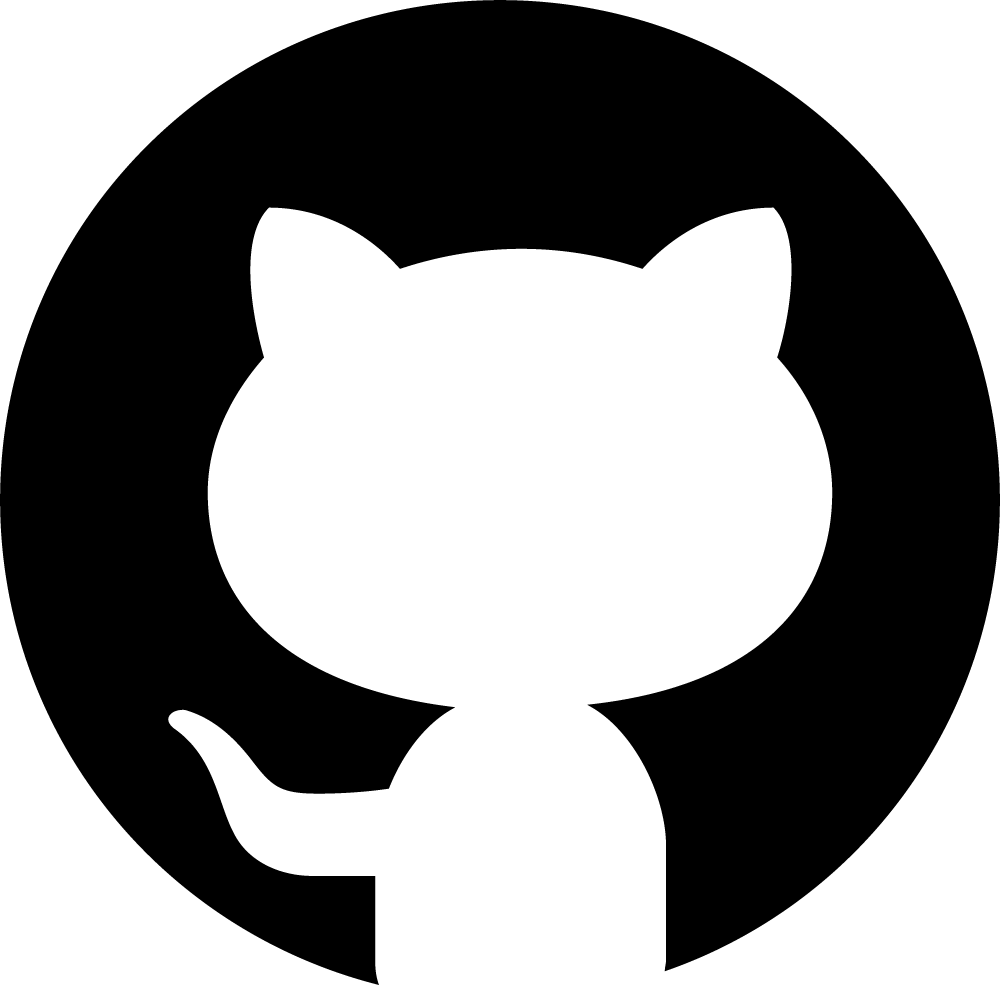
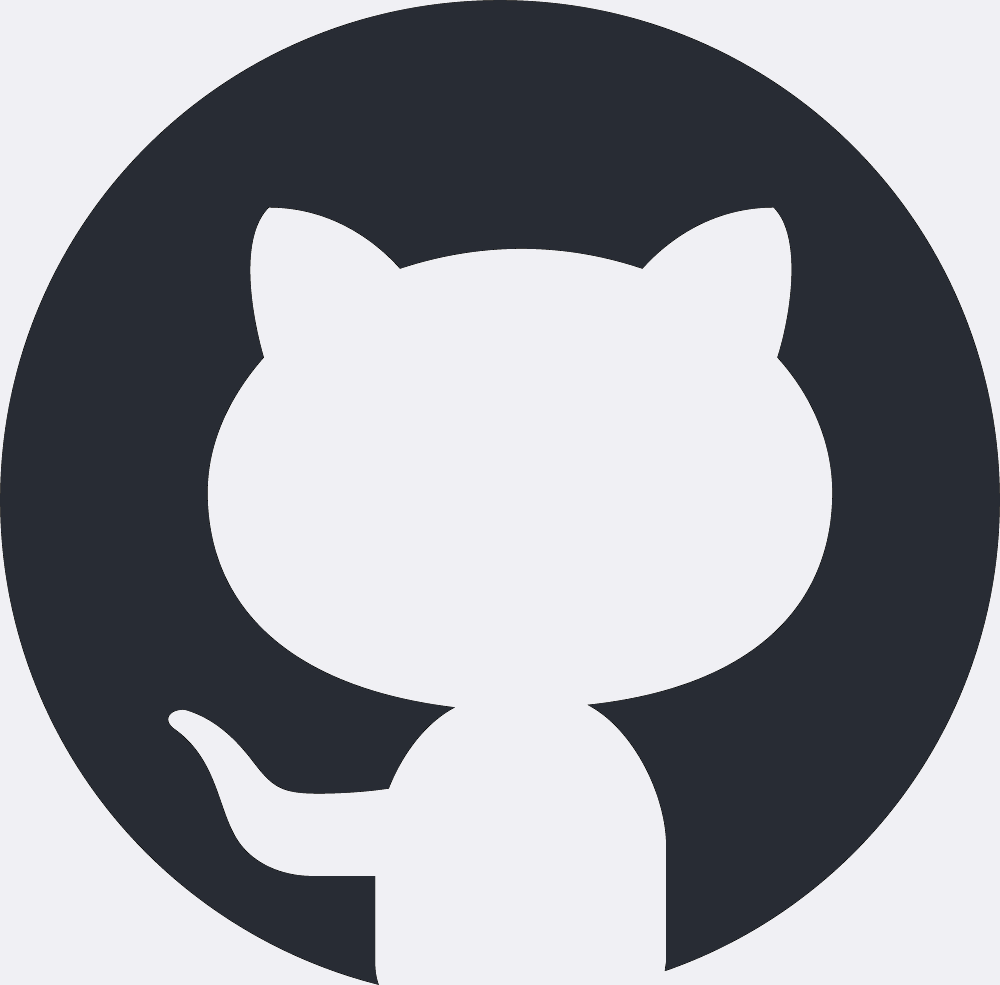
Added theme changer, added Result State

diff --git a/src/components/SimpleRuningLine/index.tsx b/src/components/SimpleRuningLine/index.tsx
@@ -1,16 +1,19 @@
 import React, { useState } from 'react';
 import { css } from 'aphrodite';
-import { useRecoilValue } from 'recoil';
+import { useRecoilState, useRecoilValue } from 'recoil';
 import { useBeforeUnload } from 'react-use';
 import { useKeyPress } from '../../hooks/useKeyPress';
 import { generate } from '../../utils/words';
 import { currentTime } from '../../utils/time';
 import { style } from './style';
 import { themeLabelState } from '../../state/selectors';
+import { simpleResultState } from '../../state/atoms';
+import { SimpleChooseComponent } from '../SimpleChooseComponent';
 
 export function SimpleRunningLineComponent({ count } : { count: number }) {
-  // useBeforeUnload(true, 'You have unsaved changes, are you sure?');
   const themeLabel = useRecoilValue(themeLabelState);
+  const [result, setResult] = useRecoilState(simpleResultState);
+
   const initialWords = generate(count);
   const [leftPadding, setLeftPadding] = useState(
     new Array(20).fill(' ').join(''),
@@ -25,6 +28,8 @@ export function SimpleRunningLineComponent({ count } : { count: number }) {
 
   const [accuracy, setAccuracy] = useState('');
   const [typedChars, setTypedChars] = useState('');
+
+  useBeforeUnload(Boolean(startTime), 'You have unsaved changes, are you sure?');
 
   useKeyPress((key) => {
     if (!startTime) {
@@ -42,7 +47,13 @@ export function SimpleRunningLineComponent({ count } : { count: number }) {
       setCurrentChar(incomingChars.charAt(0));
 
       if (incomingChars.length === 0) {
-        console.log('ABA');
+        setResult({
+          ...result,
+          [count]: {
+            WPM: wpm,
+            ACC: accuracy,
+          },
+        });
       }
       setIncomingChars(incomingChars.substring(1));
 
@@ -61,6 +72,8 @@ export function SimpleRunningLineComponent({ count } : { count: number }) {
       ),
     );
   });
+
+  if (incomingChars.length === 0 && currentChar === '') return <SimpleChooseComponent />;
 
   return (
     <div className={css(style(themeLabel).Text)}>

diff --git a/src/components/NavBarComponent/index.tsx b/src/components/NavBarComponent/index.tsx
@@ -16,7 +16,6 @@ export function NavBarComponent() {
   const [theme, setTheme] = useRecoilState(themeState);
   const themeLabel = useRecoilValue(themeLabelState);
   const handleTheme = () => setTheme(!theme);
-
   return (
     <div className={css(style(themeLabel).Main)}>
       <div className={css(style(themeLabel).Menu)}>
@@ -59,7 +58,7 @@ export function NavBarComponent() {
       />
       <a className={css(style(themeLabel).Logo)} href="https://github.com/IlyaAlexandrov1337" target="_blank" rel="noreferrer">
         <img
-          style={{ maxWidth: '54px', minWidth: '50px', marginTop: '25px' }}
+          style={{ maxWidth: '54px', minWidth: '50px', marginTop: '5px' }}
           src={themeLabel === 'dark' ? githubBlack : githubWhite}
           alt="GitHub"
         />

diff --git a/src/state/atoms.ts b/src/state/atoms.ts
@@ -1,0 +1,32 @@
+import { atom } from 'recoil';
+
+export const themeState = atom({
+  key: 'theme',
+  default: false,
+});
+
+export const simpleResultState = atom({
+  key: 'simpleResult',
+  default: {
+    2: {
+      WPM: NaN,
+      ACC: NaN,
+    },
+    10: {
+      WPM: NaN,
+      ACC: NaN,
+    },
+    30: {
+      WPM: NaN,
+      ACC: NaN,
+    },
+    50: {
+      WPM: NaN,
+      ACC: NaN,
+    },
+    100: {
+      WPM: NaN,
+      ACC: NaN,
+    },
+  },
+});

diff --git a/src/state/selectors.ts b/src/state/selectors.ts
@@ -1,0 +1,15 @@
+import { selector } from 'recoil';
+import { simpleResultState, themeState } from './atoms';
+
+export const themeLabelState = selector({
+  key: 'themeLabel',
+  get: ({ get }) => {
+    const value = get(themeState);
+    return value ? 'light' : 'dark';
+  },
+});
+
+export const simpleResultLabelState = selector({
+  key: 'simpleResultLabel',
+  get: ({ get }) => get(simpleResultState),
+});
